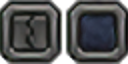
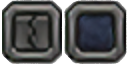
integrated item slots

diff --git a/src/js/entities/hud.js b/src/js/entities/hud.js
@@ -97,24 +97,28 @@ Game.entities.hud.setView = function(view){
   var menu = '';
   var items = '';
   var shortestLength = 5;
-  var space = 23;
+  var space = 20;
+
+  var inventoryItemNames = Game.entities.hud.inventoryItemNames = Object.keys(Game.inventory), inventoryItemCount = inventoryItemNames.length;
   
   if(view === 'inventory'){
-    var itemNames = Object.keys(Game.inventory), itemCount = itemNames.length;
-
-    menu = ' ['+ (itemCount > 6 ? '   pg1   ' : 'Inventory') +'] Hull      Exit\n';
+    menu = ' ['+ (inventoryItemCount > 6 ? '   pg1   ' : 'Inventory') +'] Hull      Exit\n';
     
-    for(var x = 0; x < Math.min(6, itemCount); x++){
-      items += itemNames[x] + (' '.repeat(itemNames[x].length > shortestLength ? space - (itemNames[x].length - shortestLength) : space)) + Game.inventory[itemNames[x]] +'\n';
+    for(var x = 0; x < Math.min(6, inventoryItemCount); x++){
+      var itemName = inventoryItemNames[x];
+      var slot = Game.itemSlot1.item === itemName ? 1 : Game.itemSlot2.item === itemName ? 2 : ' ';
+      
+      items += '['+ slot +'] '+ itemName + (' '.repeat(itemName.length > shortestLength ? space - (itemName.length - shortestLength) : space)) + Game.inventory[itemName] +'\n';
     }
   }
   else if(view === 'inventory_pg2'){
-    var itemNames = Object.keys(Game.inventory), itemCount = itemNames.length;
-
     menu = ' [   pg2   ] Hull      Exit\n';
     
-    for(var x = 6; x < itemCount; x++){
-      items += itemNames[x] + (' '.repeat(itemNames[x].length > shortestLength ? space - (itemNames[x].length - shortestLength) : space)) + Game.inventory[itemNames[x]] +'\n';
+    for(var x = 6; x < inventoryItemCount; x++){
+      var itemName = inventoryItemNames[x];
+      var slot = Game.itemSlot1.item === itemName ? 1 : Game.itemSlot2.item === itemName ? 2 : ' ';
+
+      items += '['+ slot +'] '+ itemName + (' '.repeat(itemName.length > shortestLength ? space - (itemName.length - shortestLength) : space)) + Game.inventory[itemName] +'\n';
     }
   }
   else if(view === 'hull'){
@@ -173,31 +177,52 @@ Game.entities.hud.handlePointer = function(pointer){
 
   else if(pointer.y > 120 && pointer.y < 150){
     if(Game.hudView === 'inventory'){
-      console.log('inventory slot #1');
+      var name = Game.entities.hud.inventoryItemNames[0];
+      console.log('inventory slot #1', name);
+
+      var slot = Game.itemSlot1.item === name ? 2 : Game.itemSlot2.item === name ? -1 : 1;
+
+      if(Game.itemSlot1.item === name) Game.entities.itemSlot.setItem(1, '');
+      if(Game.itemSlot2.item === name) Game.entities.itemSlot.setItem(2, '');
+      
+      if(slot > 0) Game.entities.itemSlot.setItem(slot, name);
+
+      Game.entities.hud.setView('inventory');
     }
   }
 
   else if(pointer.y > 160 && pointer.y < 200){
     if(Game.hudView === 'inventory'){
-      console.log('inventory slot #2');
+      var name = Game.entities.hud.inventoryItemNames[0];
+      console.log('inventory slot #2', name);
     }
   }
 
   else if(pointer.y > 210 && pointer.y < 240){
     if(Game.hudView === 'inventory'){
-      console.log('inventory slot #3');
+      var name = Game.entities.hud.inventoryItemNames[0];
+      console.log('inventory slot #3', name);
     }
   }
 
   else if(pointer.y > 250 && pointer.y < 280){
     if(Game.hudView === 'inventory'){
-      console.log('inventory slot #4');
+      var name = Game.entities.hud.inventoryItemNames[0];
+      console.log('inventory slot #4', name);
     }
   }
 
   else if(pointer.y > 290 && pointer.y < 320){
     if(Game.hudView === 'inventory'){
-      console.log('inventory slot #5');
+      var name = Game.entities.hud.inventoryItemNames[0];
+      console.log('inventory slot #5', name);
+    }
+  }
+
+  else if(pointer.y > 330 && pointer.y < 360){
+    if(Game.hudView === 'inventory'){
+      var name = Game.entities.hud.inventoryItemNames[0];
+      console.log('inventory slot #6', name);
     }
   }
 };

diff --git a/src/js/states/load.js b/src/js/states/load.js
@@ -4,19 +4,19 @@ Game.states.load = function(game){};
 
 Game.states.load.prototype.preload = function(){
   this.game.load.spritesheet('hud', '/assets/hud.png', 320, 256);
-  this.game.load.spritesheet('itemSlot', '/assets/itemSlot.png', 128, 64, 2);
+  this.game.load.spritesheet('itemSlot', '/assets/itemSlot.png', 64, 64);
   this.game.load.spritesheet('spaceco', '/assets/spaceco.png', 704, 448);
   this.game.load.spritesheet('teleporter', '/assets/teleporter.png', 32, 32);
-  this.game.load.spritesheet('responder', '/assets/responder.png', 32, 32, 2);
+  this.game.load.spritesheet('responder', '/assets/responder.png', 32, 32);
   this.game.load.spritesheet('responder_teleporter', '/assets/responder_teleporter.png', 32, 32);
   this.game.load.spritesheet('repair', '/assets/repair.png', 32, 32);
   this.game.load.spritesheet('tombstone', '/assets/tombstone.png', 32, 32);
-  this.game.load.spritesheet('detonator', '/assets/detonator.png', 32, 32, 3);
-  this.game.load.spritesheet('explosives', '/assets/explosives.png', 32, 32, 8);
-  this.game.load.spritesheet('fuel', '/assets/fuel.png', 32, 32, 3);
-  this.game.load.spritesheet('upgrade', '/assets/upgrades.png', 32, 32, 3);
-  this.game.load.spritesheet('mineral', '/assets/minerals.png', 32, 32, 3);
-  this.game.load.spritesheet('ground', '/assets/ground.png', 64, 64, 40);
+  this.game.load.spritesheet('detonator', '/assets/detonator.png', 32, 32);
+  this.game.load.spritesheet('explosives', '/assets/explosives.png', 32, 32);
+  this.game.load.spritesheet('fuel', '/assets/fuel.png', 32, 32);
+  this.game.load.spritesheet('upgrade', '/assets/upgrades.png', 32, 32);
+  this.game.load.spritesheet('mineral', '/assets/minerals.png', 32, 32);
+  this.game.load.spritesheet('ground', '/assets/ground.png', 64, 64);
   this.game.load.spritesheet('drill', '/assets/drill.png', 64, 64);
   this.game.load.spritesheet('lava', '/assets/lava.png', 64, 64);
   this.game.load.spritesheet('monster', '/assets/monster.png', 64, 64);

diff --git a/src/js/states/play.js b/src/js/states/play.js
@@ -23,11 +23,14 @@ Game.states.play.prototype.create = function(){
   Game.infoLine = this.game.add.text(5, 110, '', { font: '25px '+ Game.config.font, fill: '#fff', fontWeight: 'bold', backgroundColor: '#111' });
   Game.infoLine.fixedToCamera = true; 
 
-  Game.teleporter = Game.game.add.sprite(150, 20, 'teleporter');
-  Game.teleporter.anchor.setTo(0.5, 0.5);
-  Game.teleporter.fixedToCamera = true;
+  // Game.teleporter = Game.game.add.sprite(Game.viewWidth - 32, 32, 'teleporter');
+  // Game.teleporter.anchor.setTo(0.5, 0.5);
+  // Game.teleporter.fixedToCamera = true;
   
   Game.hud = Game.entities.hud.create(0, 0);
+
+  Game.itemSlot1 = Game.entities.itemSlot.create(Game.viewWidth - 32, 32);
+  Game.itemSlot2 = Game.entities.itemSlot.create(Game.viewWidth - 32, 106);
   
   var handlePointer = function(pointer){
     console.log(pointer, pointer.x, pointer.y);
@@ -44,8 +47,15 @@ Game.states.play.prototype.create = function(){
     if(Game.game.tweens.isTweening(Game.drill)) return;
     var moving;
 
-    if(Game.game.math.distance(pointer.x, pointer.y, 150, 20) < 32){ // teleporter icon
-      moving = 'teleport';
+    if(Game.game.math.distance(pointer.x, pointer.y, Game.viewWidth - 32, 32) < 32){
+      console.log('item slot #1', Game.itemSlot1.item);
+
+      Game.entities.player.useItem(1, Game.itemSlot1.item);
+    }
+    else if(Game.game.math.distance(pointer.x, pointer.y, Game.viewWidth - 32, 106) < 32){
+      console.log('item slot #2', Game.itemSlot2.item);
+      
+      Game.entities.player.useItem(2, Game.itemSlot2.item);
     }
     else if(Game.game.math.distance(pointer.x, pointer.y, 60, 40) < 64){ // hud console
       Game.entities.hud.open('hud');

diff --git a/src/js/entities/itemSlot.js b/src/js/entities/itemSlot.js
@@ -1,0 +1,32 @@
+/* global Phaser, Game */
+
+Game.entities.itemSlot = function(game){};
+
+Game.entities.itemSlot.create = function(x, y){
+  var itemSlot =  Game.game.add.sprite(x, y, 'itemSlot', 2);
+
+  itemSlot.anchor.setTo(0.5, 0.5);
+  
+  itemSlot.fixedToCamera = true;
+  
+  itemSlot.frame = 0;
+  itemSlot.item = '';
+
+  return itemSlot;
+};
+
+Game.entities.itemSlot.setItem = function(slotNum, item){
+  Game['itemSlot'+ slotNum].item = item;
+
+  Game['itemSlot'+ slotNum].frame = item === '' ? 0 : 1;
+
+  if(item === ''){
+    if(Game['itemSlot'+ slotNum].itemSprite) Game['itemSlot'+ slotNum].itemSprite.destroy();
+  }
+  else{
+    Game['itemSlot'+ slotNum].itemSprite = Game.game.add.sprite(0, 0, item);
+    Game['itemSlot'+ slotNum].itemSprite.anchor.setTo(0.5, 0.5);
+  
+    Game['itemSlot'+ slotNum].addChild(Game['itemSlot'+ slotNum].itemSprite);
+  }
+};

diff --git a/src/js/entities/player.js b/src/js/entities/player.js
@@ -66,6 +66,8 @@ Game.entities.player.move = function(game, direction){
     setTimeout(function(){
       Game.infoLine.setText('');
     }, 2000);
+
+    return;
   }
 
   if(Game.entities.player.justMoved_TO){
@@ -231,4 +233,13 @@ Game.entities.player.move = function(game, direction){
       Game.drill.emitter = null;
     }
   }, moveTime + 150);
+};
+
+Game.entities.player.useItem = function(slotNum, item){
+  if(item === 'teleporter'){
+    Game.entities.player.move(Game.game, 'teleport');    
+  }
+  else{
+    console.log(item, ' not yet implemented use func');
+  }
 };

diff --git a/gulpfile.js b/gulpfile.js
@@ -58,6 +58,7 @@ gulp.task('compile-js', function(){
     
     'src/js/entities/player.js',
     'src/js/entities/hud.js',
+    'src/js/entities/itemSlot.js',
     'src/js/entities/spaceco.js',
     'src/js/entities/mineral.js',
     'src/js/entities/ground.js',
